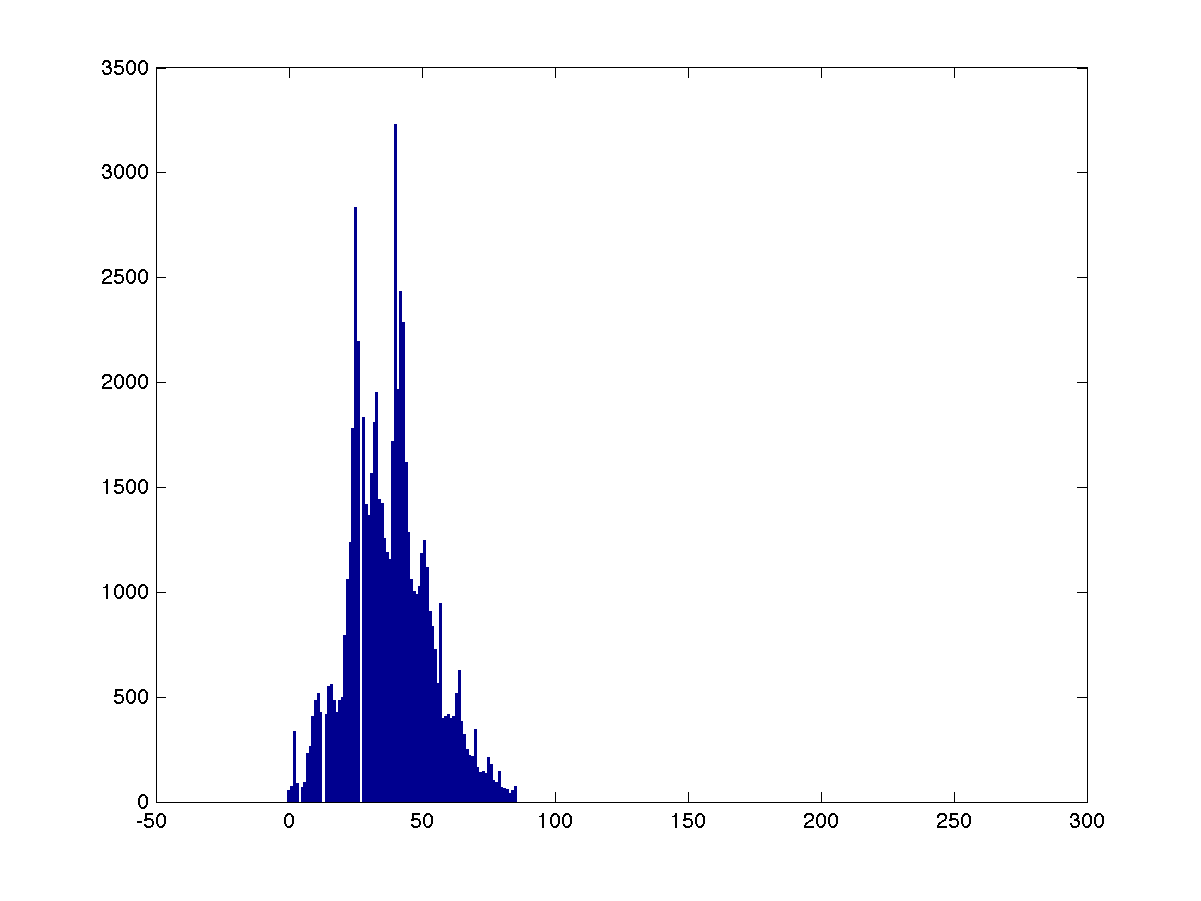
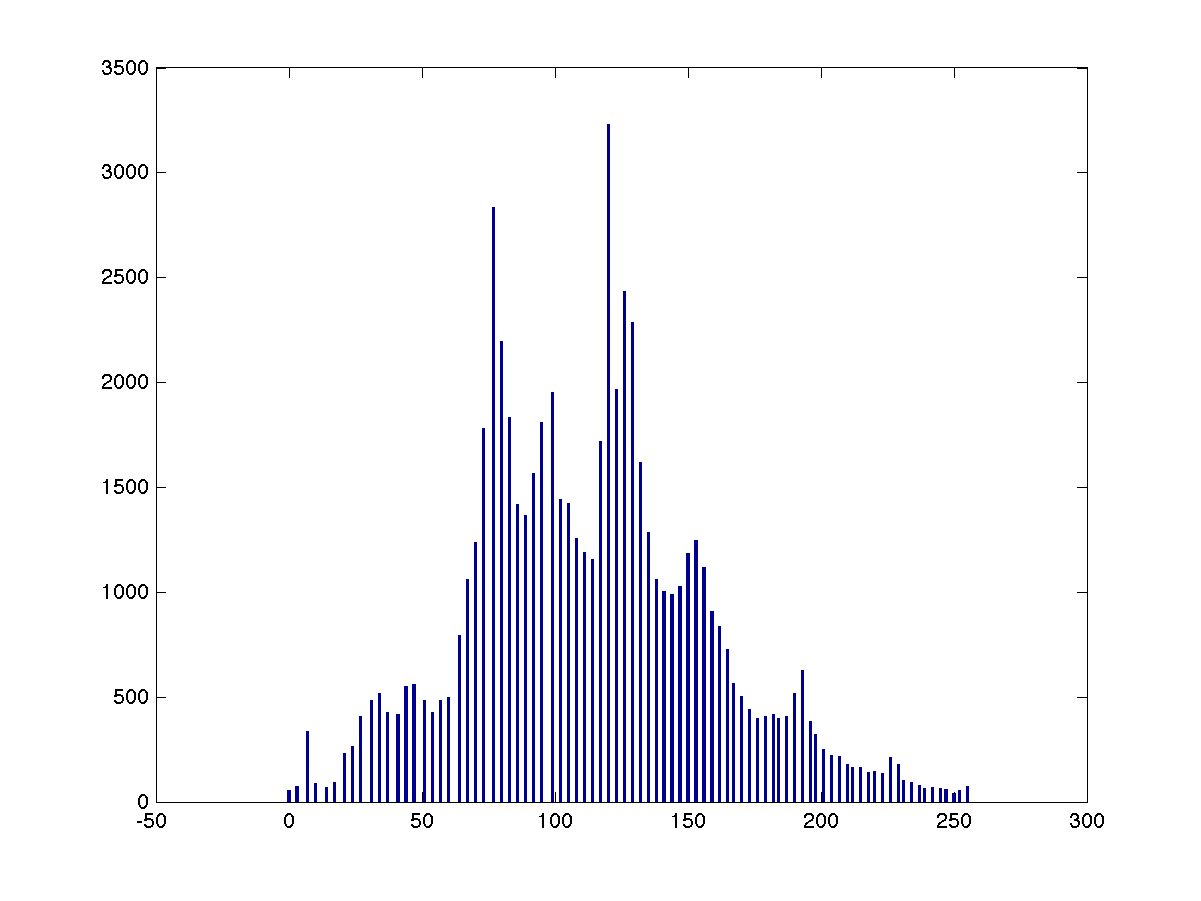
finish problem 1, function descriptions not yet

Changed region(s): [[0.2465, 0.3108, 0.801, 0.9012]]

diff --git a/hw1/README.m b/hw1/README.m
@@ -129,12 +129,12 @@ saveas(bar(0:255, plotHistogram(L)), 'sample2.local.hist.equal.hist.png');
 % Implementation 7: Perform the log transform on D and output the         %
 %                   corresponding histogram.                              %
 % M-file name: logTransform.m                                             %
-% Usage: logTransform(D, c)                                               %
+% Usage: logTransform(D)                                                  %
 % Output: The 2D matrix enhanced by log transform                         %
 % ####################################################################### %
 
 fprintf('\nPerforming log transform on D and plot the corresponding histogram ...\n');
-LT = logTransform(D, 0.8);
+LT = logTransform(D);
 imwrite(uint8(LT), 'sample2.log.png');
 
 saveas(bar(0:255, plotHistogram(LT)), 'sample2.log.hist.png');
@@ -143,15 +143,15 @@ saveas(bar(0:255, plotHistogram(LT)), 'sample2.log.hist.png');
 % Implementation 8: Perform the inverse log transform on D and output     %
 %                   the corresponding histogram                           %
 % M-file name: invLogTransform.m                                          %
-% Usage: 
-% Output:
+% Usage: invLogTransform(D)                                               %
+% Output: The 2D matrix enhanced by inverse log transform                 %
 % ####################################################################### %
 
-% fprintf('\n Performing inverse log transform on D and plot the corresponding histogram ...\n');
-% ILT = inverselogTransform(D);
-% imwrite(uint8(ILT), 'sample.inv.log.png');
-% 
-% saveas(bar(0:255, plotHistogram(ILT)), 'sample2.inv.log.hist.png');
+fprintf('\nPerforming inverse log transform on D and plot the corresponding histogram ...\n');
+ILT = invLogTransform(D);
+imwrite(uint8(ILT), 'sample.inv.log.png');
+
+saveas(bar(0:255, plotHistogram(ILT)), 'sample2.inv.log.hist.png');
 
 % ####################################################################### %
 % Implementation 9: Perform the power-law transform on D and output the   %

diff --git a/hw1/logTransform.m b/hw1/logTransform.m
@@ -1,11 +1,24 @@
-function LT = logTransform(G, c)
-    % Formula of log transform: r = c * log(1 + s), where s is the source
-    % pixel value that is scaled to range [0, 1], r is the resulting pixel
-    % value, and c is the parameter that controls the extent of log
-    % transform.
-    % Input: G - the input 2D matrix
-    %        c - the parameter that controls the extend of log transform
-    % Reference: http://arxiv.org/pdf/1003.4053.pdf
-    G = G / 255; % scale the pixel value to range [0, 1]
-    LT = round(c * log2(1 + G) * 255);
-end
+function LT = logTransform(G)
+% ####################################################################### %
+% logTransform: Perform log transform on the given 2D image matrix        %
+%                                                                         %
+%   Usage:                                                                %
+%       LT = logTransform(G)                                              %
+%                                                                         %
+%   Description:                                                          %
+%       For a given 2D image matrix G, log transform enhances it by       %
+%                                                                         %
+%                           LT = c * log(1 + G),                          %
+%                                                                         %
+%       where c is the scaling constant that is chosen to ensure the      %
+%       maximum output value in LT is 255. For here, c = 255 / (1 + R),   %
+%       where R denotes the maximum pixel value in G.                     %
+%                                                                         %
+%   Reference:                                                            %
+%       Reference: http://homepages.inf.ed.ac.uk/rbf/HIPR2/pixlog.htm     %
+% ####################################################################### %
+
+% Scale the pixel values in G to range [0, 1]
+G = G / 255;
+
+LT = round(255 / log(1 + max(max(G))) * log(1 + G));

diff --git a/hw1/powerLawTransform.m b/hw1/powerLawTransform.m
@@ -1,8 +1,24 @@
 function PLT = powerLawTransform(G, p)
-    % Formula of power-law transform: r = s^p
-    % Input: G - the input 2D matrix
-    %        p - the parameter that controls the extent of power operation
-    % scale the pixel value to range [0, 1]
-    G = G / 255;
-    PLT = round(G .^ p * 255);
-end
+% ####################################################################### %
+% invLogTransform: Perform power-law transform on the given 2D image      %
+%                  matrix                                                 %
+%                                                                         %
+%   Usage:                                                                %
+%       PLT = powerLawTransform(G)                                        %
+%                                                                         %
+%   Description:                                                          %
+%       For a given 2D image matrix G, power-law transform enhances it by %
+%                                                                         %
+%                          PLT = c * G^p,                                 %
+%                                                                         %
+%       where c is the scaling constant that is chosen to ensure the      %
+%       maximum output value in PLT is 255, and p > 0 is the assigned     %
+%       p-th power. For here, c = 255 / R^p, where R denotes the maximum  %
+%       pixel value in G.                                                 %
+%                                                                         %
+% ####################################################################### %
+
+% Scale the pixel values in G to range [0, 1]
+G = G / 255;
+
+PLT = round(255 / max(max(G))^p * G.^p);

diff --git a/hw1/invLogTransform.m b/hw1/invLogTransform.m
@@ -1,0 +1,25 @@
+function ILT = invLogTransform(G)
+% ####################################################################### %
+% invLogTransform: Perform inverse log transform on the given 2D          %
+%                  image matrix                                           %
+%                                                                         %
+%   Usage:                                                                %
+%       ILT = invLogTransform(G)                                          %
+%                                                                         %
+%   Description:                                                          %
+%       For a given 2D image matrix G, inverse log transform enhances     %
+%       it by                                                             %
+%                                                                         %
+%                          ILT = c * (exp(G) - 1),                        %
+%                                                                         %
+%       where c is the scaling constant that is chosen to ensure the      %
+%       maximum output value in ILT is 255. For here,                     %
+%       c = 255 / (exp(R) - 1), where R denotes the maximum pixel         %
+%       value in G.                                                       %
+%                                                                         %
+% ####################################################################### %
+
+% Scale the pixel values in G to range [0, 1]
+G = G / 255;
+
+ILT = round(255 / (exp(max(max(G))) - 1) * (exp(G) - 1));
